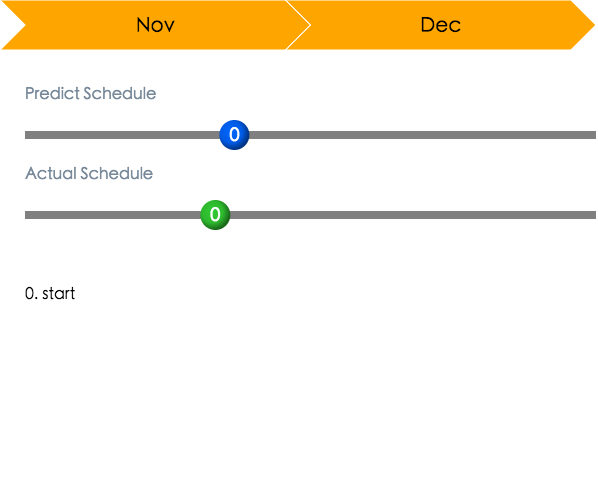
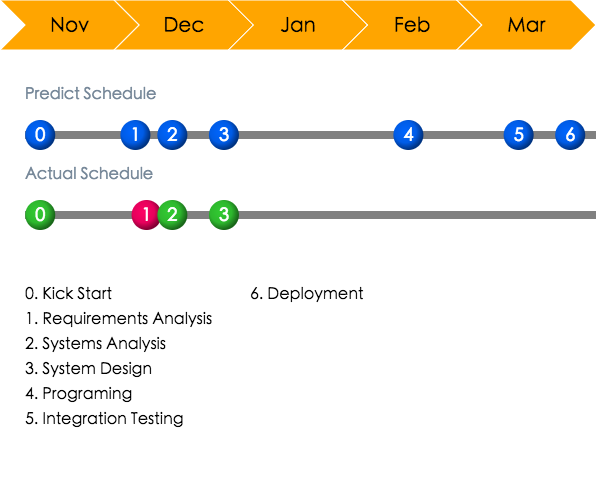
Add README.md
1. Add README.md
2. Fixed desc spacing

diff --git a/js/Graph.js b/js/Graph.js
@@ -90,10 +90,9 @@ class Graph extends React.Component {
     let ary=[];
 
     preBalls.forEach((value, key)=>{
-        console.log(`${key}, ${value}`);
         let text = `${value.sort}. ${value.desc}`;
-        if(key!==0 && key%5 === 0){
-          x += 100;
+        if(value.sort!==0 && value.sort%6 === 0){
+          x += 225;
           y = 300;
         }
         else{

diff --git a/README.md b/README.md
@@ -1,0 +1,63 @@
+## About
+
+This project is crafted to help users report the progress of their projects on weekly meetings. Instead of adjusting schedule diagram on slides every week, I want to offer a simpler and more accurate way to accomplish the progress visualization.
+
+The project is using React.js as the frontend framework, and firebase realtime database plays the role of the backend (BaaS).
+
+**Interface**
+
+<img src="interface.png" style="width : 90%" />
+
+**Result**
+
+<img src="sample.png" style="width : 90%" />
+
+## Install
+
+Download Dependencies with npm.
+
+```sh
+npm install
+```
+
+Run the bellow scripts to package javascript and scss into assests. 
+
+```sh
+# Production
+npm run build
+
+# Development
+npm run watch
+```
+
+Because we are using [UglifyJs](https://github.com/mishoo/UglifyJS2) on production mode, the file name of bundle file is slightly different. Open `./public/index.html`, then modify `src="./assets/bundle.js"` to `src="./assets/bundle.min.js"`.
+
+## Configuration
+
+**Firebase**
+
+Remember to enable providers and add domains for your app in your [firebase console](https://console.firebase.google.com/) under "Authentication > SIGN-IN METHOD" tag. 
+
+<img src="provider.png" style="width : 90%" />
+<img src="domain.png" style="width : 90%" />
+
+Modify database access rules like below
+
+```json
+{
+  "rules": {
+    "schedule":{
+      "$uid":{
+        ".read": "auth !== null && auth.uid == $uid",
+        ".write": "auth !== null && auth.uid == $uid",
+      }
+    },
+    "users":{
+      "$uid":{
+        ".read": "auth != null && auth.uid ==$uid"
+      }
+    },
+    ".write": "auth != null"
+  }
+}
+```
